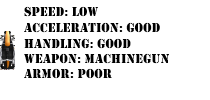
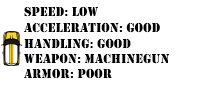
cool orignal bandit sprites by Dovile Lapinskaite! one more car to go

Changed region(s): [[0.0, 0.3, 0.1143, 0.72]]

diff --git a/javascript/resources.js b/javascript/resources.js
@@ -1,5 +1,5 @@
 exports.props=['18tires.png','3tires.png'];
-exports.cars=['bandit.png','big_wheel.png','blue_car.png','brawler_blue.png','brawler_green.png','brawler_red.png','brawler_yellow.png','bullet.png','green_car.png','missile.png','pink_car.png','wheel.png','yellow_car.png'];
+exports.cars=['bandit_blue.png','bandit_green.png','bandit_red.png','bandit_yellow.png','big_wheel.png','blue_car.png','brawler_blue.png','brawler_green.png','brawler_red.png','brawler_yellow.png','bullet.png','green_car.png','missile.png','pink_car.png','wheel.png','yellow_car.png'];
 exports.tiles=['a2_arrow_left.png','a2_arrow_right.png','a2_arrow_top.png','a2_start_right.png','arrow_bot.png','arrow_left.png','asphalt.png','asphalt2.png','asphalt2_arrow_bot.png','asphalt2_start_line_top.png','asphalt2_start_top.png','cactus.png','corner_bot_left.png','corner_bot_right.png','corner_top_left.png','corner_top_right.png','cross.png','gb_bottom.png','gb_left.png','gb_right.png','gb_top.png','grass.png','inward_bot_left.png','inward_bot_right.png','inward_top_left.png','inward_top_right.png','sand.png','sand_b.png','sand_bl_corner.png','sand_c_bl.png','sand_c_br.png','sand_c_tl.png','sand_c_tr.png','sand_l.png','sand_lb.png','sand_lp.png','sand_r.png','sand_sb.png','sand_st.png','sand_t.png','sand_tl_corner.png','sand_tr_corner.png','sant_br_corner.png','start_asphalt.png','start_right.png','start_top.png','stone.png'];
 exports.animations=['explosion.png','explosion_small.png','smoke.png'];
 exports.ui=['bandit_descr.png','brawler_descr.png','button.png','button_hover.png','button_selected.png','controls.png','guncar.png','racer_descr.png','title3.png'];

diff --git a/javascript/car_descriptions.js b/javascript/car_descriptions.js
@@ -38,19 +38,19 @@
  
 */
 
-exports.Bandit={'width':1.6,
+exports.Bandit={'width':1.7,
                 'height':3.5,
                 'name':'Bandit',
-                'filenames':['bandit.png'],
-                'power':100,
+                'filenames':['bandit_yellow.png', 'bandit_green.png', 'bandit_blue.png', 'bandit_red.png'],
+                'power':105,
                 'max_speed':135,
                 'max_steer_angle':17,
                 'health':80,
                 'main_weapon':'Machinegun',
-                'wheels':[{'x':-1, 'y':-1, 'width':0.4, 'length':0.8, 'revolving':true, 'powered':true, 'filename':'wheel.png'},
-                          {'x':1, 'y':-1, 'width':0.4, 'length':0.8, 'revolving':true, 'powered':true, 'filename':'wheel.png'},
-                          {'x':-1, 'y':1.1, 'width':0.4, 'length':0.8, 'revolving':false, 'powered':false, 'filename':'wheel.png'},
-                          {'x':1, 'y':1.1, 'width':0.4, 'length':0.8, 'revolving':false, 'powered':false, 'filename':'wheel.png'}]
+                'wheels':[{'x':-0.85, 'y':-1, 'width':0.4, 'length':0.8, 'revolving':true, 'powered':true, 'filename':'wheel.png'},
+                          {'x':0.85, 'y':-1, 'width':0.4, 'length':0.8, 'revolving':true, 'powered':true, 'filename':'wheel.png'},
+                          {'x':-0.85, 'y':1.1, 'width':0.4, 'length':0.8, 'revolving':false, 'powered':false, 'filename':'wheel.png'},
+                          {'x':0.85, 'y':1.1, 'width':0.4, 'length':0.8, 'revolving':false, 'powered':false, 'filename':'wheel.png'}]
                 };
 exports.Racer={'width':2,
                 'name':'Racer',

diff --git a/javascript/settings.js b/javascript/settings.js
@@ -1,0 +1,24 @@
+var settings=exports.settings={SCREEN_WIDTH:800,  //screen width in pixels
+                                SCREEN_HEIGHT:600, //screen height in pixels
+                                LOGIC_FPS:60,        //logic updates per second
+                                RENDER_FPS:60,        //renders per second
+                                TILE_SCALE:50,     //tile height/width in pixels
+                                PHYS_SCALE:10,    //pixels in a meter
+                                SERVER:'ws://www.banditracer.eu:8001',
+                                DEBUG:true};     //game server
+                                
+exports.get=function(name){
+    return settings[name];
+};
+
+exports.init=function(){
+    for(var key in settings){
+        if(window.hasOwnProperty(key)){
+            settings[key]=window[key];   
+        }
+    }
+};
+
+exports.set=function(name, value){
+    settings[name]=value;
+};
